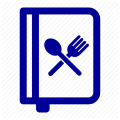
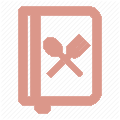
updated style sheets

diff --git a/src/RecipeDetailPage/RecipeDetailPage.js b/src/RecipeDetailPage/RecipeDetailPage.js
@@ -35,7 +35,6 @@ class RecipeDetailPage extends Component {
   }
 
    render() {
-  // const {recipe} = this.state
    return (
      <div className='RecipeDetail'>
        <section className='ActualRecipe'>
@@ -62,6 +61,7 @@ class RecipeDetailPage extends Component {
          </Link>
         <section className="CurrentReviews">
          <h3>Reviews:</h3>
+         {(!this._getRecipe() || !this._getRecipe().reviews || this._getRecipe().reviews.length <= 0 || this._getRecipe().reviews[0] == "") ? <p>Be the first to leave a review for this recipe!</p> :
          <ul className='ReviewList'>
          {this._getRecipe() && this._getRecipe().reviews && this._getRecipe().reviews.map((review, index) =>
            <li key={index}>
@@ -69,6 +69,7 @@ class RecipeDetailPage extends Component {
            </li>
            )}
            </ul>
+         }
         </section>
         <section className="ReviewForm">
           <ReviewForm />

diff --git a/src/Header/Header.css b/src/Header/Header.css
@@ -2,19 +2,22 @@
 
 .Header {
 
-    background-image: url("../Images/cocktails.jpg");
-    background-repeat: no-repeat;
-    background-size: 100% 100%;
+    background: url('../Images/cocktails.jpg') no-repeat center center; 
+    -webkit-background-size: cover;
+    -moz-background-size: cover;
+    -o-background-size: cover;
+    background-size: cover;
     color: #E9BEB5;
     font-size: 24px;
     font-family:'Mansalva', cursive;
     height: 9rem;
+    border-bottom: 3px solid darkblue;
 }
 
 h1 {
     margin-bottom: 0;
     margin-top: 10px;
-    color: #E9BEB5;
+    color: #db978a;
 }
 
 a {
@@ -40,14 +43,14 @@ a:visited {
 
 @media all and (min-width: 900px) {
     .Header {
-        height: 20rem;
+        height: 17rem;
     }
 }
 
     
 @media all and (min-width: 1100px) {
     .Header {
-        height: 25rem;
+        height: 22rem;
     }
 }
     

diff --git a/src/HomePage/HomePage.css b/src/HomePage/HomePage.css
@@ -26,7 +26,7 @@
     display: flex;
     flex-direction: column;
     justify-content: space-evenly;
-    background-color: #f3ded8;
+    background-color: rgb(219, 151, 138, .4);
     min-height: 35%;
 }
 
@@ -46,7 +46,7 @@
 
 .AddRecipeLink
 {
-    color: #E9BEB5;
+    color: #db978a;
     text-decoration: underline;
 }
 
@@ -93,7 +93,7 @@
         display: flex;
         flex-direction: row;
         justify-content: space-evenly;
-        padding: 0 3%;
+        padding: 0 5% 0 1%;
         margin-top: -5%;
     }
     .ViewCocktails {

diff --git a/src/App.css b/src/App.css
@@ -81,7 +81,7 @@ li p {
     display: flex;
     flex-direction: column;
     justify-content: space-between;
-    background-color: #f3ded8;
+    background-color: rgb(219, 151, 138, .4);
     margin-top: 12%;
 }
 
@@ -123,6 +123,15 @@ li p {
     box-shadow: 1px 1px 1px 1px darkblue;
     margin-bottom: 5%;
 }
+
+ol li p:hover {
+    cursor: pointer;
+}
+
+button:hover {
+    cursor: pointer;
+}
+
 
 @media all and (min-width: 700px) {
     .AddEditRecipeForm {

diff --git a/src/RecipeDetailPage/RecipeDetailPage.css b/src/RecipeDetailPage/RecipeDetailPage.css
@@ -14,7 +14,7 @@
     display: flex;
     flex-direction: column;
     justify-content: space-evenly;
-    background-color: #f3ded8;
+    background-color: rgb(219, 151, 138, .4);
 }
 
 .IngredientList li {
@@ -54,6 +54,10 @@
 
 .RecipeDetail h2 {
     margin-bottom: 3%;
+}
+
+.CurrentReviews p {
+    margin: 5% auto;
 }
 
 @media all and (min-width: 700px) {

diff --git a/src/EditRecipe/EditRecipe.js b/src/EditRecipe/EditRecipe.js
@@ -138,7 +138,7 @@ class EditRecipe extends Component {
       return (
         <div className='AddEditRecipeForm'>
           <form onSubmit={this.handleUpdateRecipe}>
-          <h2>Edit Recipe</h2>
+          <h2>Edit Recipe: {name}</h2>
           <div>
             <h4>Ingredients:</h4>
                 <ol className='StepIngList'>

diff --git a/src/Footer/Footer.css b/src/Footer/Footer.css
@@ -4,7 +4,7 @@
     position: relative;
     bottom: 0;
     width: 100%;
-    background-color: #f3ded8;
+    background-color: rgb(219, 151, 138, .4);
     border-top: 3px solid darkblue;
     display: flex;
     flex-direction: row;

diff --git a/src/RecipeListPage/RecipeListPage.css b/src/RecipeListPage/RecipeListPage.css
@@ -17,7 +17,7 @@
     display: flex;
     flex-direction: column;
     justify-content: space-evenly;
-    background-color: #f3ded8;
+    background-color: rgb(219, 151, 138, .4);
     width: 70%;
 }
 
